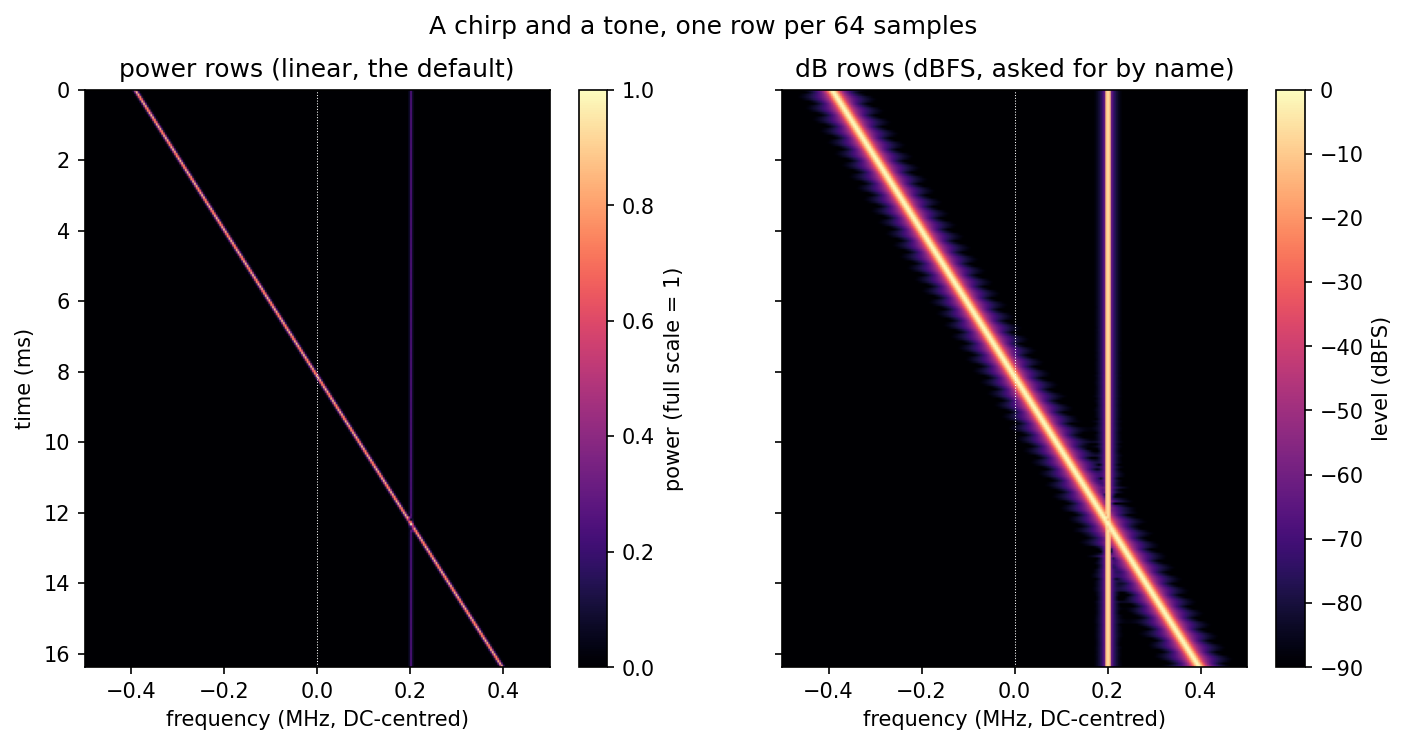
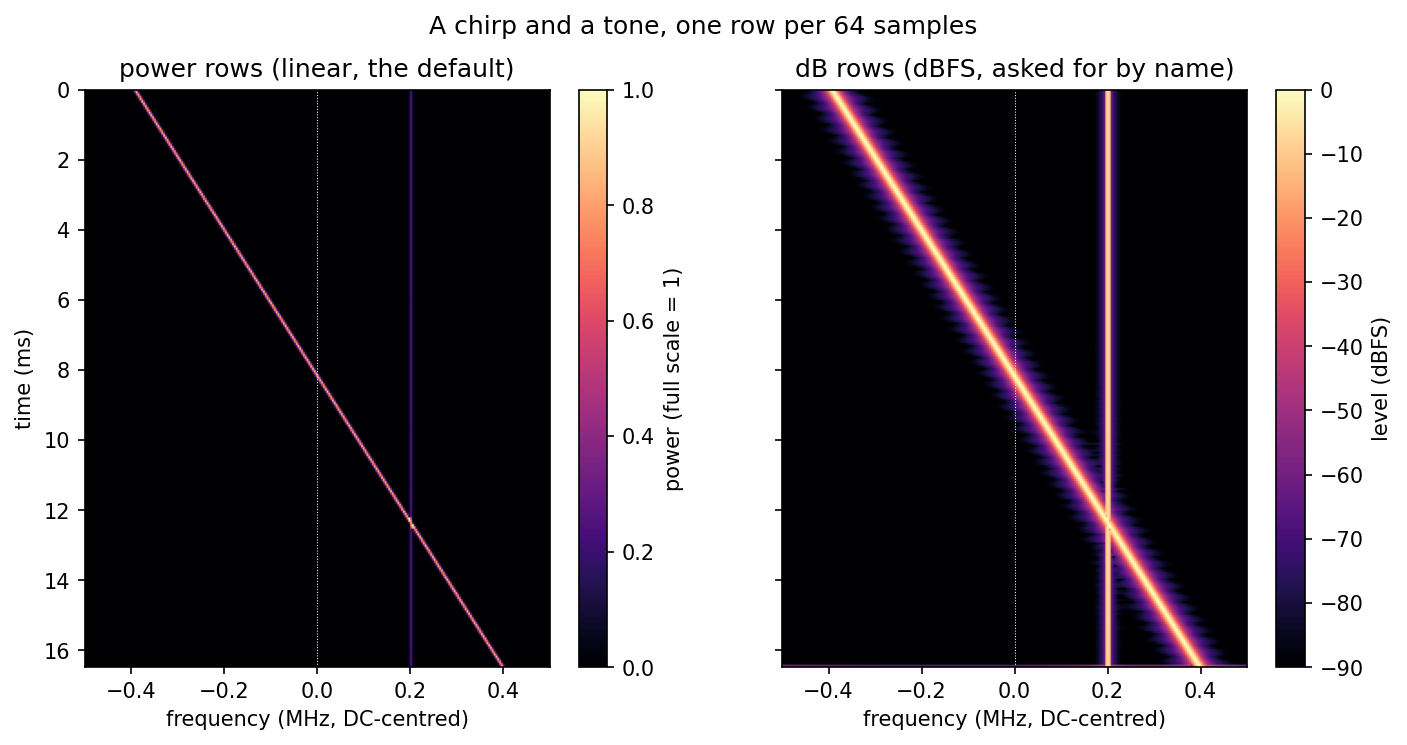
docs(gallery): fence the spectrogram includes; check the flush, dB and edges (Refs #1894)
The page fences both includes as python, so the comments are not H1s.
The script's docstrings and comments in the included regions are one
line each: the prose is on the page. The figure now runs a partial frame
at the end, so the flush branch is what the figure shows. The script
asserts that the chunked stream equals one push, that the owed partial
row's chirp peak stays within a bin, that the tone reads 0.25 and -6.02
dB on every row clear of the chirp, that dB is 10 log10 of power, and
that the axis edges are +-fs/2. The nav entry follows the index order.

No-issue: review fixes for the spectrogram gallery page

Claude-Session: https://claude.ai/code/session_01UbVHHW5vAqBRoHRYo7xPL3

diff --git a/src/doppler/examples/spectrogram_demo.py b/src/doppler/examples/spectrogram_demo.py
@@ -12,21 +12,21 @@ NFFT = 256
 HOP = 64
 FS = 1.0e6
 N_SEG = 8 * NFFT  # each tone is held for eight frames (rows)
+# 96 samples past whole frames: the stream then owes a partial frame.
+CAPTURE = 16 * NFFT * 4 + 96
 
 
 # --8<-- [start:stream]
-def stream_rows(x: np.ndarray, mode: str, hop: int) -> np.ndarray:
-    """Push x in arbitrary chunks and return every row the stream produces.
-
-    The chunk sizes are random and not multiples of the frame, so the rows are
-    the same however the stream is cut: that is the object's contract.
-    """
+def stream_rows(
+    x: np.ndarray, mode: str, hop: int, chunked: bool = True
+) -> np.ndarray:
+    """Return every row a stream produces, pushed in chunks or all at once."""
     sp = Spectrogram(nfft=NFFT, hop=hop, window="hann", mode=mode)
     rows = []
     rng = np.random.default_rng(0)
     pos = 0
     while pos < x.size:
-        size = int(rng.integers(1, 3 * NFFT))
+        size = int(rng.integers(1, 3 * NFFT)) if chunked else x.size
         block = sp.push(x[pos : pos + size])
         if block is not None:  # None: this push completed no row
             rows.append(block)
@@ -42,20 +42,14 @@ def stream_rows(x: np.ndarray, mode: str, hop: int) -> np.ndarray:
 
 # --8<-- [start:figure]
 def make_figure(out_path: str = "spectrogram_demo.png") -> None:
-    """Draw a chirp and a tone as power rows and as dB rows, and check them.
-
-    The chirp sweeps from -0.4 fs to +0.4 fs over the whole capture; the tone
-    sits at +0.2 fs at half amplitude, a quarter of the power. The axes are
-    DC-centred, so a frequency reads straight off the horizontal axis.
-    """
-    n = np.arange(16 * NFFT * 4)
+    """Draw the chirp and tone as power and dB rows, after checking them."""
+    n = np.arange(CAPTURE)
     t = n / FS
-    total = t[-1] + 1.0 / FS
+    total = CAPTURE / FS
     f0, f1 = -0.4 * FS, 0.4 * FS
     k = (f1 - f0) / total
     chirp = np.exp(2j * np.pi * (f0 * t + 0.5 * k * t * t))
-    # On a bin centre: 51 bins of 256 is 0.199 fs, so the reading is the bin's
-    # own -6.02 dB, not the window's off-bin scalloping.
+    # On a bin centre, so the reading is the bin's own -6.02 dB.
     f_tone = 51 * FS / NFFT
     tone = 0.5 * np.exp(2j * np.pi * f_tone * t)
     x = (chirp + tone).astype(np.complex64)
@@ -63,29 +57,39 @@ def make_figure(out_path: str = "spectrogram_demo.png") -> None:
     power = stream_rows(x, "power", HOP)
     db = stream_rows(x, "db", HOP)
     assert power.shape == db.shape
+    # 254 whole frames, then the owed partial one, flushed at the end.
+    assert power.shape[0] == 255
+    # Chunking must not change the rows: compare with one push.
+    assert np.array_equal(power, stream_rows(x, "power", HOP, chunked=False))
 
-    # Physical checks, each a claim about the figure's data:
-    # 1. The chirp's peak bin tracks the sweep: its frequency at the frame's
-    #    centre, to within one bin, on every row clear of the tone.
+    bin_hz = FS / NFFT
+    freqs = np.fft.fftshift(np.fft.fftfreq(NFFT, 1 / FS))
+    # The bins span -fs/2 to +fs/2 exactly, so the axis edges are these.
+    assert np.isclose(freqs[0], -FS / 2)
+    assert np.isclose(freqs[-1] + bin_hz, FS / 2)
+
     rows = np.arange(power.shape[0])
     centre = (rows * HOP + NFFT / 2) / FS
     expect_hz = f0 + k * centre
-    bin_hz = FS / NFFT
     far = np.abs(expect_hz - f_tone) > 4 * bin_hz
+    # The chirp's peak tracks the sweep within one bin, the flushed row too.
     peak_hz = (power.argmax(axis=1) - NFFT // 2) * bin_hz
     assert np.all(np.abs(peak_hz[far] - expect_hz[far]) <= bin_hz), np.abs(
         peak_hz[far] - expect_hz[far]
     ).max()
-    # 2. The tone reads a quarter of full scale in power rows, and -6.02 dB in
-    #    dB rows, on its own bin, where the chirp is not.
-    quiet = np.argmax(np.abs(expect_hz - f_tone) > 4 * bin_hz)
     tone_bin = NFFT // 2 + 51
-    assert abs(power[quiet, tone_bin] - 0.25) < 0.02, power[quiet, tone_bin]
-    assert abs(db[quiet, tone_bin] - (-6.02)) < 0.2, db[quiet, tone_bin]
+    # The tone reads a quarter of full scale, and -6.02 dB, on every row clear
+    # of the chirp.
+    assert far.sum() > 200
+    assert np.all(np.abs(power[far, tone_bin] - 0.25) < 0.02)
+    assert np.all(np.abs(db[far, tone_bin] + 6.02) < 0.2)
+    # Each dB row is 10 log10 of its power row, above the -90 dB floor.
+    live = power > 1e-9
+    assert np.allclose(db[live], 10 * np.log10(power[live]), atol=1e-3)
 
     fig, (ax_p, ax_d) = plt.subplots(1, 2, figsize=(11, 5), sharey=True)
     # MHz across; ms down, with row 0 (time 0) at the top of the panel.
-    extent = (-0.5, 0.5, total * 1e3, 0.0)
+    extent = (freqs[0] / 1e6, (freqs[-1] + bin_hz) / 1e6, total * 1e3, 0.0)
     im_p = ax_p.imshow(
         power,
         origin="upper",

diff --git a/docs/gallery/spectrogram.md b/docs/gallery/spectrogram.md
@@ -7,7 +7,8 @@
 Both panels show the same capture: a complex chirp sweeping from −0.4 fs to
 +0.4 fs, and a tone at +0.2 fs at half amplitude. Each horizontal line is one
 row of the spectrogram: the power spectrum of one 256-sample frame, a new frame
-every 64 samples. Time runs down the page.
+every 64 samples. Time runs down the page, and the last row is the partial
+frame the stream owes at the end.
 
 **The horizontal axis is DC-centred.** Zero hertz is in the middle, and the
 edges are ±fs/2 = ±0.5 MHz. A frequency reads straight off the axis, with no
@@ -19,26 +20,36 @@ full scale. The tone is a dimmer horizontal line: half the amplitude is a
 quarter of the power.
 
 **The right panel is the same data in dBFS.** Full scale is 0 dB, and the
-tone reads −6.02 dB, which is what the amplitude says it should. Use dB when
-the levels span a wide range, and power when you want to add rows together:
-averaging dB rows gives a different answer from converting the average.
+tone reads −6.02 dB, which is what the amplitude says it should. Each dB row is
+10·log10 of the matching power row. Use dB when the levels span a wide range,
+and power when you want to add rows together: averaging dB rows gives a
+different answer from converting the average.
 
 Power rows are the default. A dB spectrogram is asked for by name.
 
 ## How it works
 
 Samples arrive in pieces of any size, as they would from a radio, and the
-object turns them into rows as the frames complete. Chunk sizes do not change
-the rows. The example pushes the stream in random chunks to show this, and
-flushes the last partial frame at the end:
+object turns them into rows as the frames complete. The example pushes the
+stream in random chunks, and the script checks that the rows match a single
+push of the whole capture. The chunk sizes do not change the rows. At the end
+the stream is flushed, which writes the zero-padded partial frame if one is
+owed:
 
+```python
 --8<-- "src/doppler/examples/spectrogram_demo.py:stream"
+```
 
 The figure is drawn from the rows the same stream produces. The checks in that
-function fail the run, not just the picture, if the chirp's peak leaves its
-expected bin or the tone's level is wrong:
+function fail the run, not just the picture. They confirm that the chirp's
+peak stays within one bin of its sweep on every row, including the flushed
+partial row. They confirm the tone reads a quarter of full scale and −6.02 dB
+on every row the chirp is clear of, and that each dB row is 10·log10 of its
+power row. They also confirm the axis edges sit at ±0.5 MHz:
 
+```python
 --8<-- "src/doppler/examples/spectrogram_demo.py:figure"
+```
 
 ## Running it
 
